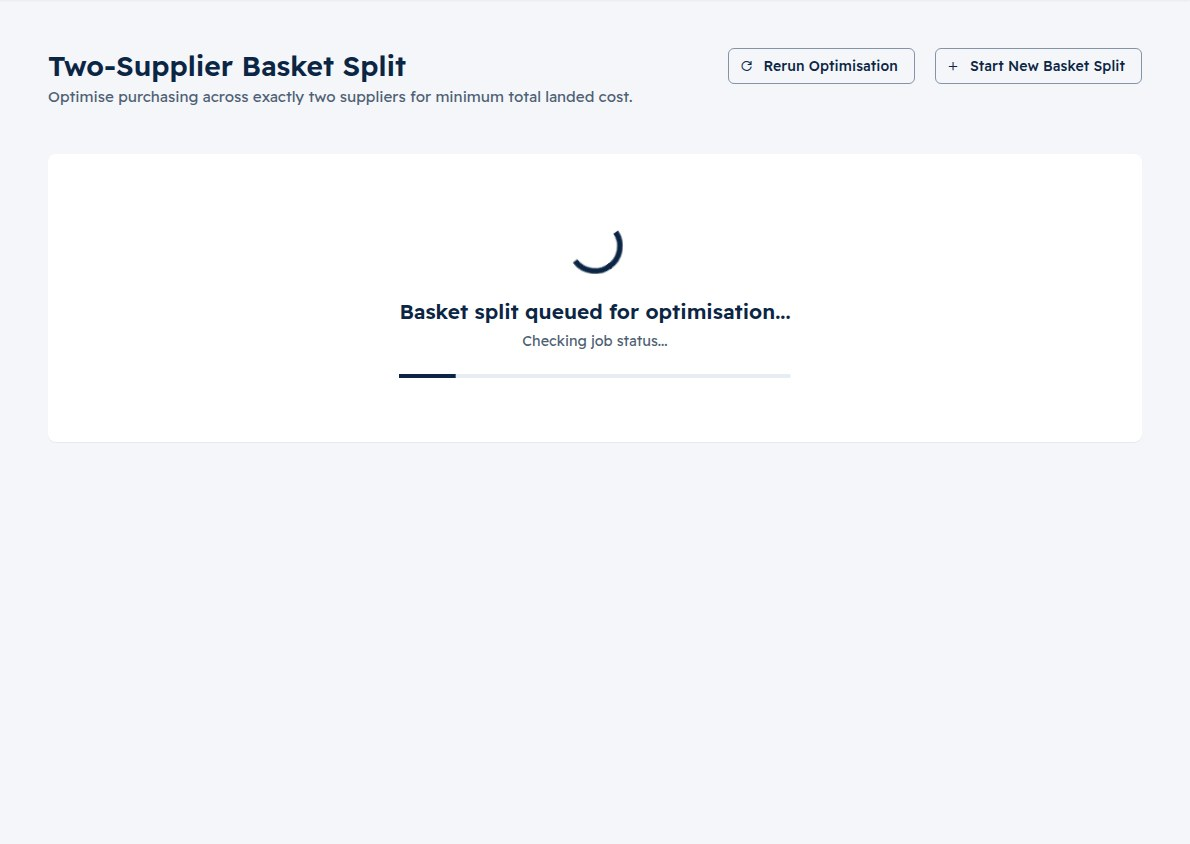
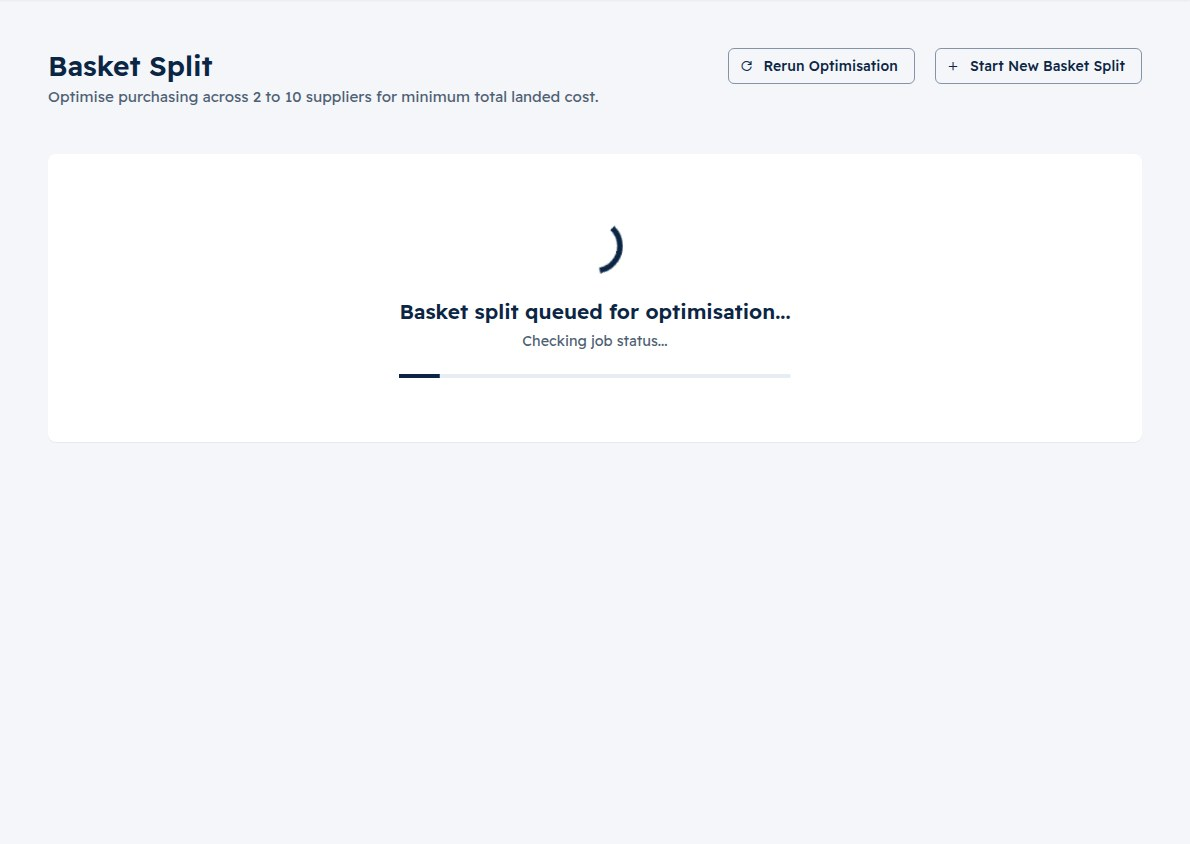
test(docs): the screenshot capture fills the Basket Split form before it submits (PPS-131) (#353)
* test(docs): the screenshot capture fills the Basket Split form before it submits (PPS-131, P-100)

#344 made new Basket Split rows start empty and left the submit button
enabled (validation shows after the first submit). The capture clicked
submit on an empty basket, got validation errors instead of a job, and
timed out, so «Docs screenshots drift» failed on every web PR since. It
now picks the first product and quantity 10 (the basket the old
defaults gave) before capturing 11 and before submitting for 11b.

* docs(user): Basket Split screenshots 11 and 11b re-rendered in CI after #344 (PPS-131)

* docs(user): the page is called Basket Split since #344 (PPS-131)

---------

Changed region(s): [[0.0311, 0.0616, 0.5286, 0.1232], [0.4664, 0.3081, 0.4975, 0.3389]]

diff --git a/apps/web/tests/e2e/user-documentation-screenshots.spec.ts b/apps/web/tests/e2e/user-documentation-screenshots.spec.ts
@@ -190,14 +190,16 @@ test.describe('User documentation screenshots', () => {
 
     await captureRoute(page, '/offers/basket-split', '11-basket-split.jpg', async () => {
       await expect(page.locator('.page-title')).toContainText('Basket Split');
+      await fillFirstBasketItem(page);
       await expect(page.locator('.form-card, .result-summary-card, .infeasible-card')).toBeVisible();
     });
 
     await page.goto('/offers/basket-split');
     await expect(page.locator('.page-title')).toContainText('Basket Split');
     await waitForNoVisibleLoading(page);
+    await fillFirstBasketItem(page);
     const submitBasket = page.locator('.submit-btn');
-    if ((await submitBasket.count()) > 0 && await submitBasket.isEnabled()) {
+    if ((await submitBasket.count()) > 0) {
       await submitBasket.click();
       await expect(
         page.locator('.job-progress-card, .result-summary-card, .infeasible-card, .error-banner').first(),
@@ -743,6 +745,13 @@ async function signInAsOwner(page: Page, creds: Credentials): Promise<void> {
   await page.click('button[type="submit"]');
   await page.waitForURL('**/home');
   await waitForNoVisibleLoading(page);
+}
+
+async function fillFirstBasketItem(page: Page): Promise<void> {
+  const firstRow = page.locator('.item-row').first();
+  await openAsyncSelect(page, firstRow.locator('.item-product-field mat-select'));
+  await page.locator('mat-option').first().click();
+  await firstRow.locator('.item-qty-field input').fill('10');
 }
 
 async function captureRoute(

diff --git a/docs/user/user-documentation.md b/docs/user/user-documentation.md
@@ -541,7 +541,7 @@ Reached from **Create Order** on the order list (blank), **From approved request
 
 | # | Element | Description |
 |---|---------|-------------|
-| 1 | **Page title — "Two-Supplier Basket Split" / Multi-Supplier Optimisation** | Optimise purchasing across 2 to 10 selected suppliers for minimum total landed cost using an exact constraint-programming solver (Google OR-Tools CP-SAT). |
+| 1 | **Page title — "Basket Split"** | Optimise purchasing across 2 to 10 selected suppliers for minimum total landed cost using an exact constraint-programming solver (Google OR-Tools CP-SAT). |
 | 2 | **Supplier selectors** | Choose 2 to 10 suppliers. The selector dynamically enforces mutual exclusion. |
 | 3 | **Commercial Constraints panel** | Toggle to configure supplier commercial terms: Minimum Order Values (MOV), Free Delivery Thresholds, Delivery Fees, and Quantity Tiers. |
 | 4 | **Risk & Urgency controls** | Set Risk Tolerance (`low`, `medium`, `high`), Delivery Urgency (`normal`, `urgent`), and explicit supplier exclusions. |
@@ -555,7 +555,7 @@ Reached from **Create Order** on the order list (blank), **From approved request
 - **Applied & Violated Constraints:** Inspect which commercial terms (MOV, delivery fee) were applied and which constraints were violated if infeasible.
 - **Advisory-Only Protection:** In strict adherence to system principles, basket optimisation is purely advisory and never autonomously creates orders or commits funds.
 
-**Mixed-currency offers:** as in Smart Compare, ProcurePilot never converts or mixes currencies here either. In the **Two-Supplier Basket Split**, if any basket item's offers span more than one currency (or that item's currency doesn't match the currency the rest of the basket is priced in), the whole optimisation is reported as infeasible in the Commercial Infeasibility Report, the same as any other item with no eligible offer. The **Advanced Multi-Supplier Optimiser** is stricter still: any currency inconsistency anywhere in the basket — across any item, supplier term, or fee — fails the entire optimisation job outright before solving even starts, rather than excluding just the affected item and solving around it.
+**Mixed-currency offers:** as in Smart Compare, ProcurePilot never converts or mixes currencies here either. In **Basket Split**, if any basket item's offers span more than one currency (or that item's currency doesn't match the currency the rest of the basket is priced in), the whole optimisation is reported as infeasible in the Commercial Infeasibility Report, the same as any other item with no eligible offer. The **Advanced Multi-Supplier Optimiser** is stricter still: any currency inconsistency anywhere in the basket — across any item, supplier term, or fee — fails the entire optimisation job outright before solving even starts, rather than excluding just the affected item and solving around it.
 
 **Business value:** basket optimisation finds the lowest total landed cost across a real order, not just the cheapest line item. It accounts for supplier minimums, delivery fees, price tiers, urgency, risk, and quality so buyers can avoid overpaying because of supplier constraints while still keeping the final purchasing decision human-authorized.
 
